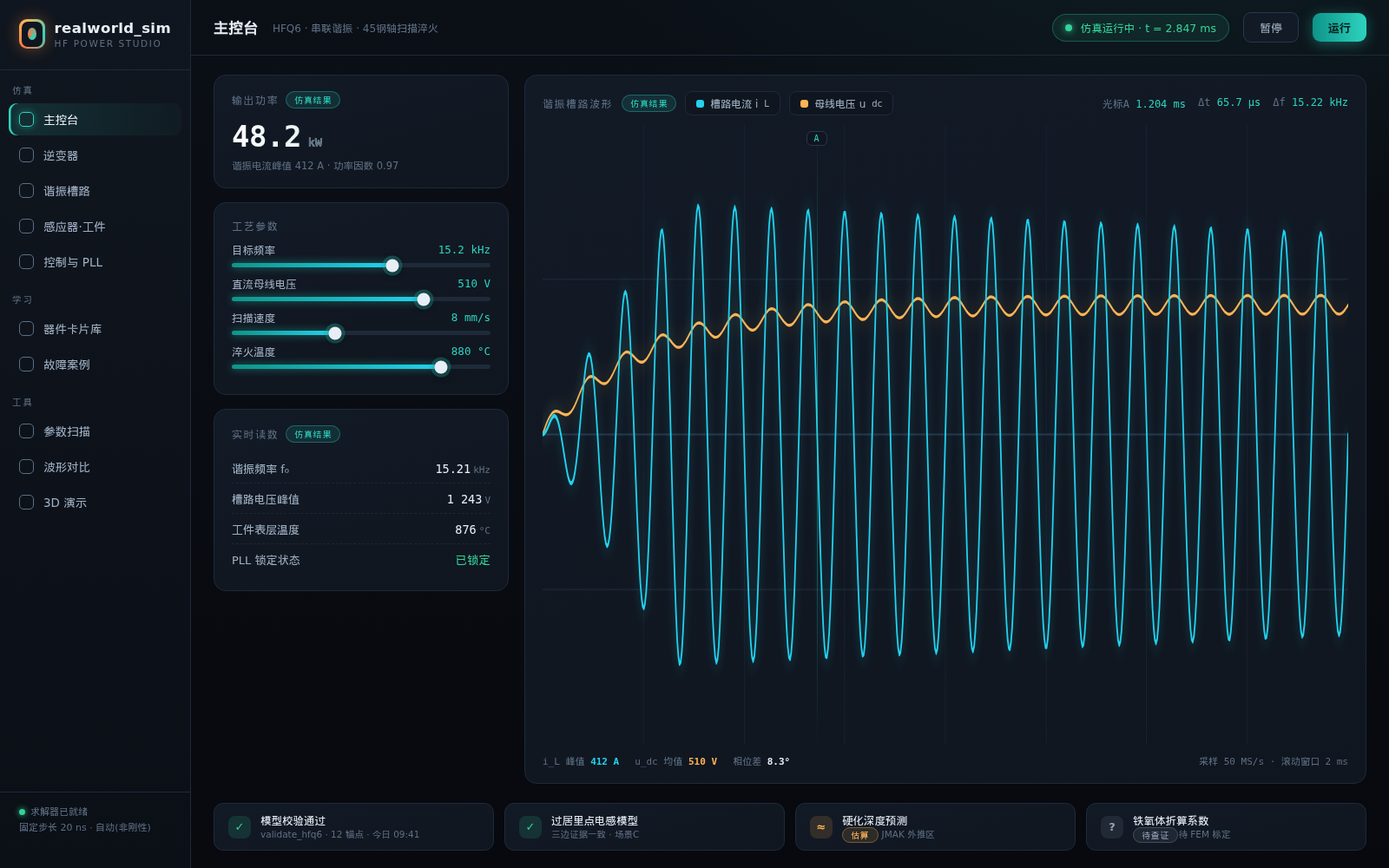
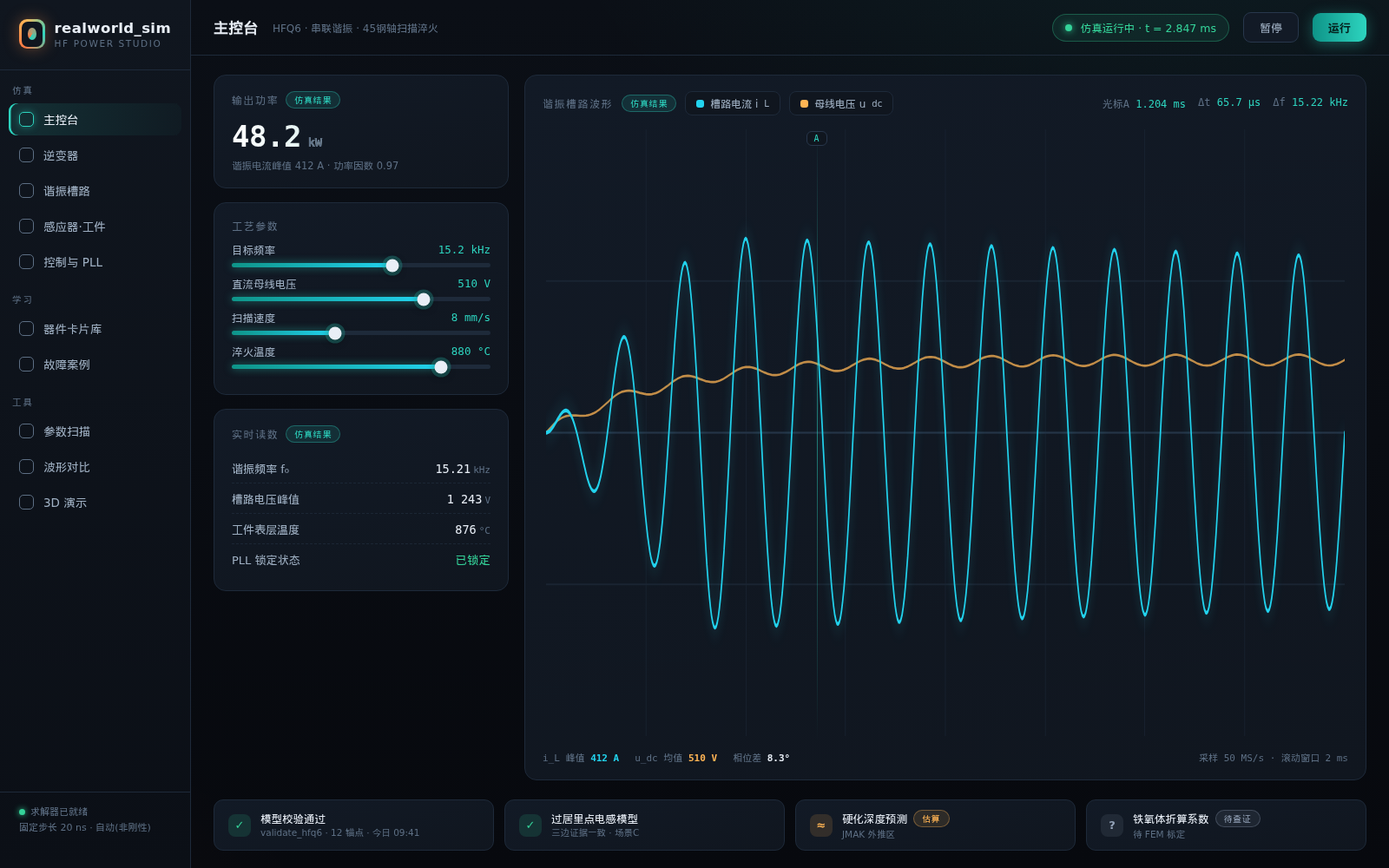
design: v1.1 修订 p1(状态卡徽章重叠修复;波形留白增加 22→13周期,母线曲线弱化)

diff --git a/design/v1/p1_dashboard.html b/design/v1/p1_dashboard.html
@@ -52,8 +52,10 @@
         <div class="ch"><i style="background:var(--em2)"></i>母线电压 u<sub>dc</sub></div>
         <div class="cursorinfo"><span>光标A <b>1.204 ms</b></span><span>Δt <b>65.7 µs</b></span><span>Δf <b>15.22 kHz</b></span></div>
       </div>
-      <div style="flex:1;position:relative">
-        <svg viewBox="0 0 1150 340" width="100%" height="100%" preserveAspectRatio="none"><line x1="144" y1="0" x2="144" y2="340" stroke="#1a2432" stroke-width="1"/><line x1="288" y1="0" x2="288" y2="340" stroke="#1a2432" stroke-width="1"/><line x1="431" y1="0" x2="431" y2="340" stroke="#1a2432" stroke-width="1"/><line x1="575" y1="0" x2="575" y2="340" stroke="#1a2432" stroke-width="1"/><line x1="719" y1="0" x2="719" y2="340" stroke="#1a2432" stroke-width="1"/><line x1="862" y1="0" x2="862" y2="340" stroke="#1a2432" stroke-width="1"/><line x1="1006" y1="0" x2="1006" y2="340" stroke="#1a2432" stroke-width="1"/><line x1="0" y1="85" x2="1150" y2="85" stroke="#1a2432" stroke-width="1"/><line x1="0" y1="170" x2="1150" y2="170" stroke="#1a2432" stroke-width="1"/><line x1="0" y1="255" x2="1150" y2="255" stroke="#1a2432" stroke-width="1"/><line x1="0" y1="170.0" x2="1150" y2="170.0" stroke="#243447" stroke-width="1"/><path d="M0.0,170.0 L2.3,167.5 L4.6,165.0 L6.9,162.9 L9.2,161.0 L11.5,159.5 L13.8,158.3 L16.1,157.6 L18.4,157.3 L20.7,157.3 L23.0,157.6 L25.3,158.0 L27.6,158.5 L29.9,158.9 L32.2,159.2 L34.5,159.2 L36.8,158.9 L39.1,158.2 L41.4,157.2 L43.7,155.8 L46.0,154.1 L48.3,152.1 L50.6,149.9 L52.9,147.7 L55.2,145.6 L57.5,143.5 L59.8,141.8 L62.1,140.3 L64.4,139.2 L66.7,138.5 L69.0,138.2 L71.3,138.3 L73.6,138.7 L75.9,139.3 L78.2,140.1 L80.5,140.8 L82.8,141.5 L85.1,142.0 L87.4,142.2 L89.7,142.1 L92.0,141.6 L94.3,140.7 L96.6,139.4 L98.9,137.9 L101.2,136.1 L103.5,134.2 L105.8,132.2 L108.1,130.3 L110.4,128.6 L112.7,127.1 L115.0,126.0 L117.3,125.2 L119.6,124.8 L121.9,124.9 L124.2,125.3 L126.5,125.9 L128.8,126.8 L131.1,127.7 L133.4,128.7 L135.7,129.5 L138.0,130.1 L140.3,130.4 L142.6,130.4 L144.9,130.0 L147.2,129.2 L149.5,128.0 L151.8,126.6 L154.1,124.9 L156.4,123.1 L158.7,121.3 L161.0,119.6 L163.3,118.1 L165.6,116.9 L167.9,116.0 L170.2,115.5 L172.5,115.4 L174.8,115.7 L177.1,116.3 L179.4,117.2 L181.7,118.2 L184.0,119.3 L186.3,120.4 L188.6,121.3 L190.9,122.0 L193.2,122.3 L195.5,122.3 L197.8,121.9 L200.1,121.2 L202.4,120.0 L204.7,118.7 L207.0,117.1 L209.3,115.4 L211.6,113.7 L213.9,112.2 L216.2,110.8 L218.5,109.8 L220.8,109.1 L223.1,108.9 L225.4,109.0 L227.7,109.5 L230.0,110.2 L232.3,111.3 L234.6,112.4 L236.9,113.6 L239.2,114.8 L241.5,115.7 L243.8,116.4 L246.1,116.8 L248.4,116.7 L250.7,116.3 L253.0,115.5 L255.3,114.4 L257.6,113.0 L259.9,111.5 L262.2,109.9 L264.5,108.3 L266.8,106.9 L269.1,105.7 L271.4,104.9 L273.7,104.4 L276.0,104.3 L278.3,104.6 L280.6,105.2 L282.9,106.2 L285.2,107.3 L287.5,108.6 L289.8,109.8 L292.1,111.0 L294.4,111.9 L296.7,112.6 L299.0,112.9 L301.3,112.8 L303.6,112.4 L305.9,111.5 L308.2,110.4 L310.5,109.0 L312.8,107.5 L315.1,106.0 L317.4,104.5 L319.7,103.2 L322.0,102.1 L324.3,101.4 L326.6,101.1 L328.9,101.2 L331.2,101.6 L333.5,102.4 L335.8,103.4 L338.1,104.7 L340.4,106.0 L342.7,107.3 L345.0,108.4 L347.3,109.3 L349.6,110.0 L351.9,110.2 L354.2,110.1 L356.5,109.6 L358.8,108.7 L361.1,107.5 L363.4,106.1 L365.7,104.7 L368.0,103.1 L370.3,101.7 L372.6,100.5 L374.9,99.6 L377.2,99.0 L379.5,98.9 L381.8,99.1 L384.1,99.6 L386.4,100.5 L388.7,101.7 L391.0,103.0 L393.3,104.3 L395.6,105.6 L397.9,106.7 L400.2,107.6 L402.5,108.2 L404.8,108.4 L407.1,108.1 L409.4,107.6 L411.7,106.6 L414.0,105.4 L416.3,104.0 L418.6,102.5 L420.9,101.1 L423.2,99.7 L425.5,98.6 L427.8,97.8 L430.1,97.4 L432.4,97.3 L434.7,97.7 L437.0,98.4 L439.3,99.4 L441.6,100.6 L443.9,101.9 L446.2,103.3 L448.5,104.6 L450.8,105.7 L453.1,106.5 L455.4,107.0 L457.7,107.0 L460.0,106.8 L462.3,106.1 L464.6,105.1 L466.9,103.8 L469.2,102.4 L471.5,101.0 L473.8,99.5 L476.1,98.3 L478.4,97.3 L480.7,96.6 L483.0,96.3 L485.3,96.3 L487.6,96.8 L489.9,97.6 L492.2,98.7 L494.5,99.9 L496.8,101.3 L499.1,102.7 L501.4,103.9 L503.7,105.0 L506.0,105.7 L508.3,106.1 L510.6,106.1 L512.9,105.7 L515.2,105.0 L517.5,103.9 L519.8,102.6 L522.1,101.2 L524.4,99.8 L526.7,98.4 L529.0,97.2 L531.3,96.3 L533.6,95.7 L535.9,95.5 L538.2,95.7 L540.5,96.2 L542.8,97.1 L545.1,98.3 L547.4,99.6 L549.7,101.0 L552.0,102.4 L554.3,103.6 L556.6,104.6 L558.9,105.2 L561.2,105.5 L563.5,105.4 L565.8,104.9 L568.1,104.1 L570.4,103.0 L572.7,101.7 L575.0,100.2 L577.3,98.8 L579.6,97.5 L581.9,96.4 L584.2,95.5 L586.5,95.1 L588.8,95.0 L591.1,95.3 L593.4,95.9 L595.7,96.9 L598.0,98.1 L600.3,99.5 L602.6,100.9 L604.9,102.3 L607.2,103.4 L609.5,104.3 L611.8,104.9 L614.1,105.1 L616.4,104.9 L618.7,104.3 L621.0,103.4 L623.3,102.2 L625.6,100.9 L627.9,99.5 L630.2,98.0 L632.5,96.8 L634.8,95.7 L637.1,95.0 L639.4,94.6 L641.7,94.7 L644.0,95.1 L646.3,95.8 L648.6,96.9 L650.9,98.2 L653.2,99.6 L655.5,101.0 L657.8,102.3 L660.1,103.4 L662.4,104.2 L664.7,104.7 L667.0,104.8 L669.3,104.5 L671.6,103.8 L673.9,102.8 L676.2,101.6 L678.5,100.2 L680.8,98.8 L683.1,97.4 L685.4,96.2 L687.7,95.2 L690.0,94.6 L692.3,94.4 L694.6,94.5 L696.9,95.0 L699.2,95.9 L701.5,97.0 L703.8,98.3 L706.1,99.7 L708.4,101.1 L710.7,102.4 L713.0,103.4 L715.3,104.2 L717.6,104.5 L719.9,104.5 L722.2,104.1 L724.5,103.4 L726.8,102.3 L729.1,101.0 L731.4,99.6 L733.7,98.2 L736.0,96.9 L738.3,95.7 L740.6,94.9 L742.9,94.3 L745.2,94.2 L747.5,94.4 L749.8,95.0 L752.1,96.0 L754.4,97.2 L756.7,98.5 L759.0,99.9 L761.3,101.3 L763.6,102.5 L765.9,103.5 L768.2,104.2 L770.5,104.4 L772.8,104.3 L775.1,103.8 L777.4,103.0 L779.7,101.9 L782.0,100.5 L784.3,99.1 L786.6,97.7 L788.9,96.4 L791.2,95.3 L793.5,94.5 L795.8,94.1 L798.1,94.1 L800.4,94.4 L802.7,95.1 L805.0,96.2 L807.3,97.4 L809.6,98.8 L811.9,100.2 L814.2,101.6 L816.5,102.7 L818.8,103.6 L821.1,104.2 L823.4,104.3 L825.7,104.1 L828.0,103.5 L830.3,102.6 L832.6,101.4 L834.9,100.1 L837.2,98.6 L839.5,97.2 L841.8,96.0 L844.1,95.0 L846.4,94.3 L848.7,94.0 L851.0,94.1 L853.3,94.5 L855.6,95.3 L857.9,96.4 L860.2,97.7 L862.5,99.1 L864.8,100.5 L867.1,101.8 L869.4,102.9 L871.7,103.7 L874.0,104.2 L876.3,104.2 L878.6,103.9 L880.9,103.2 L883.2,102.2 L885.5,101.0 L887.8,99.6 L890.1,98.2 L892.4,96.8 L894.7,95.6 L897.0,94.7 L899.3,94.1 L901.6,93.9 L903.9,94.1 L906.2,94.6 L908.5,95.5 L910.8,96.7 L913.1,98.0 L915.4,99.5 L917.7,100.8 L920.0,102.1 L922.3,103.1 L924.6,103.8 L926.9,104.2 L929.2,104.1 L931.5,103.7 L933.8,102.9 L936.1,101.9 L938.4,100.6 L940.7,99.2 L943.0,97.8 L945.3,96.4 L947.6,95.3 L949.9,94.5 L952.2,94.0 L954.5,93.9 L956.8,94.2 L959.1,94.8 L961.4,95.8 L963.7,97.0 L966.0,98.4 L968.3,99.8 L970.6,101.2 L972.9,102.4 L975.2,103.3 L977.5,103.9 L979.8,104.2 L982.1,104.0 L984.4,103.5 L986.7,102.6 L989.0,101.5 L991.3,100.2 L993.6,98.8 L995.9,97.4 L998.2,96.1 L1000.5,95.0 L1002.8,94.3 L1005.1,93.9 L1007.4,93.9 L1009.7,94.3 L1012.0,95.0 L1014.3,96.1 L1016.6,97.3 L1018.9,98.7 L1021.2,100.2 L1023.5,101.5 L1025.8,102.6 L1028.1,103.5 L1030.4,104.0 L1032.7,104.2 L1035.0,103.9 L1037.3,103.3 L1039.6,102.3 L1041.9,101.1 L1044.2,99.8 L1046.5,98.3 L1048.8,97.0 L1051.1,95.7 L1053.4,94.8 L1055.7,94.1 L1058.0,93.8 L1060.3,93.9 L1062.6,94.4 L1064.9,95.3 L1067.2,96.4 L1069.5,97.7 L1071.8,99.1 L1074.1,100.5 L1076.4,101.8 L1078.7,102.9 L1081.0,103.7 L1083.3,104.1 L1085.6,104.1 L1087.9,103.8 L1090.2,103.0 L1092.5,102.0 L1094.8,100.8 L1097.1,99.4 L1099.4,97.9 L1101.7,96.6 L1104.0,95.4 L1106.3,94.5 L1108.6,94.0 L1110.9,93.8 L1113.2,94.0 L1115.5,94.6 L1117.8,95.5 L1120.1,96.7 L1122.4,98.1 L1124.7,99.5 L1127.0,100.9 L1129.3,102.1 L1131.6,103.1 L1133.9,103.8 L1136.2,104.1 L1138.5,104.0 L1140.8,103.6 L1143.1,102.8 L1145.4,101.7 L1147.7,100.4 L1150.0,99.0" fill="none" stroke="#ffb454" stroke-width="1.6" stroke-linejoin="round" stroke-linecap="round" style="filter:drop-shadow(0 0 6px #ffb45466)"/><path d="M0.0,170.0 L1.6,169.8 L3.3,169.1 L4.9,168.1 L6.6,166.9 L8.2,165.4 L9.9,163.9 L11.5,162.4 L13.1,161.2 L14.8,160.3 L16.4,159.8 L18.1,160.0 L19.7,160.8 L21.4,162.2 L23.0,164.3 L24.6,167.0 L26.3,170.3 L27.9,174.0 L29.6,178.0 L31.2,182.0 L32.9,185.9 L34.5,189.5 L36.1,192.6 L37.8,195.0 L39.4,196.4 L41.1,196.8 L42.7,196.1 L44.4,194.2 L46.0,191.1 L47.6,186.9 L49.3,181.6 L50.9,175.5 L52.6,168.7 L54.2,161.6 L55.9,154.4 L57.5,147.4 L59.1,140.9 L60.8,135.3 L62.4,130.8 L64.1,127.7 L65.7,126.1 L67.4,126.3 L69.0,128.3 L70.6,132.1 L72.3,137.6 L73.9,144.7 L75.6,153.1 L77.2,162.6 L78.9,172.8 L80.5,183.4 L82.1,193.8 L83.8,203.6 L85.4,212.5 L87.1,220.1 L88.7,225.9 L90.4,229.6 L92.0,231.2 L93.6,230.3 L95.3,226.9 L96.9,221.2 L98.6,213.2 L100.2,203.2 L101.9,191.5 L103.5,178.6 L105.1,165.0 L106.8,151.1 L108.4,137.6 L110.1,124.9 L111.7,113.7 L113.4,104.4 L115.0,97.4 L116.6,93.1 L118.3,91.8 L119.9,93.5 L121.6,98.3 L123.2,106.1 L124.9,116.7 L126.5,129.6 L128.1,144.5 L129.8,160.8 L131.4,177.8 L133.1,195.0 L134.7,211.6 L136.4,226.9 L138.0,240.4 L139.6,251.4 L141.3,259.4 L142.9,264.1 L144.6,265.2 L146.2,262.5 L147.9,256.1 L149.5,246.1 L151.1,233.0 L152.8,217.0 L154.4,198.9 L156.1,179.2 L157.7,158.8 L159.4,138.4 L161.0,118.8 L162.6,100.9 L164.3,85.3 L165.9,72.7 L167.6,63.8 L169.2,58.8 L170.9,58.2 L172.5,61.9 L174.1,70.0 L175.8,82.1 L177.4,98.0 L179.1,117.0 L180.7,138.4 L182.4,161.4 L184.0,185.2 L185.6,208.8 L187.3,231.3 L188.9,251.7 L190.6,269.3 L192.2,283.0 L193.9,291.7 L195.5,295.7 L197.1,294.7 L198.8,289.0 L200.4,278.6 L202.1,264.0 L203.7,245.7 L205.4,224.6 L207.0,201.3 L208.6,176.8 L210.3,152.0 L211.9,128.0 L213.6,105.6 L215.2,85.7 L216.9,69.1 L218.5,56.4 L220.1,48.2 L221.8,44.7 L223.4,46.0 L225.1,52.2 L226.7,62.9 L228.4,77.9 L230.0,96.3 L231.6,117.7 L233.3,141.0 L234.9,165.5 L236.6,190.1 L238.2,214.0 L239.9,236.1 L241.5,255.7 L243.1,271.9 L244.8,284.1 L246.4,291.9 L248.1,295.0 L249.7,293.2 L251.4,286.6 L253.0,275.5 L254.6,260.3 L256.3,241.6 L257.9,220.1 L259.6,196.7 L261.2,172.2 L262.9,147.7 L264.5,124.1 L266.1,102.2 L267.8,83.0 L269.4,67.2 L271.1,55.4 L272.7,48.0 L274.4,45.4 L276.0,47.7 L277.6,54.6 L279.3,66.1 L280.9,81.6 L282.6,100.5 L284.2,122.1 L285.9,145.6 L287.5,170.0 L289.1,194.4 L290.8,217.8 L292.4,239.4 L294.1,258.2 L295.7,273.7 L297.4,285.1 L299.0,292.0 L300.6,294.1 L302.3,291.5 L303.9,284.1 L305.6,272.3 L307.2,256.5 L308.9,237.4 L310.5,215.6 L312.1,192.1 L313.8,167.8 L315.4,143.5 L317.1,120.3 L318.7,99.0 L320.4,80.5 L322.0,65.5 L323.6,54.5 L325.3,48.1 L326.9,46.4 L328.6,49.4 L330.2,57.2 L331.9,69.4 L333.5,85.4 L335.1,104.7 L336.8,126.6 L338.4,150.1 L340.1,174.4 L341.7,198.5 L343.4,221.5 L345.0,242.5 L346.6,260.7 L348.3,275.3 L349.9,285.8 L351.6,291.8 L353.2,293.1 L354.9,289.6 L356.5,281.5 L358.1,269.0 L359.8,252.7 L361.4,233.1 L363.1,211.2 L364.7,187.6 L366.4,163.4 L368.0,139.4 L369.6,116.6 L371.3,96.0 L372.9,78.2 L374.6,63.9 L376.2,53.9 L377.9,48.3 L379.5,47.4 L381.1,51.4 L382.8,59.9 L384.4,72.7 L386.1,89.3 L387.7,109.0 L389.4,131.1 L391.0,154.6 L392.6,178.8 L394.3,202.6 L395.9,225.1 L397.6,245.5 L399.2,263.0 L400.9,276.8 L402.5,286.4 L404.1,291.6 L405.8,292.0 L407.4,287.6 L409.1,278.7 L410.7,265.6 L412.4,248.8 L414.0,228.9 L415.6,206.7 L417.3,183.1 L418.9,159.1 L420.6,135.4 L422.2,113.1 L423.9,93.0 L425.5,76.0 L427.1,62.6 L428.8,53.3 L430.4,48.6 L432.1,48.7 L433.7,53.4 L435.4,62.7 L437.0,76.1 L438.6,93.2 L440.3,113.3 L441.9,135.5 L443.6,159.1 L445.2,183.1 L446.9,206.6 L448.5,228.6 L450.1,248.4 L451.8,265.1 L453.4,278.1 L455.1,286.9 L456.7,291.1 L458.4,290.6 L460.0,285.5 L461.6,275.9 L463.3,262.1 L464.9,244.8 L466.6,224.6 L468.2,202.3 L469.9,178.7 L471.5,154.8 L473.1,131.5 L474.8,109.7 L476.4,90.3 L478.1,73.9 L479.7,61.4 L481.4,53.0 L483.0,49.2 L484.6,50.1 L486.3,55.6 L487.9,65.6 L489.6,79.6 L491.2,97.2 L492.9,117.5 L494.5,139.9 L496.1,163.5 L497.8,187.3 L499.4,210.4 L501.1,231.9 L502.7,251.1 L504.4,267.0 L506.0,279.2 L507.6,287.1 L509.3,290.5 L510.9,289.2 L512.6,283.3 L514.2,272.9 L515.9,258.6 L517.5,240.8 L519.1,220.3 L520.8,197.8 L522.4,174.3 L524.1,150.6 L525.7,127.7 L527.4,106.4 L529.0,87.7 L530.6,72.1 L532.3,60.3 L533.9,52.8 L535.6,49.9 L537.2,51.6 L538.9,57.9 L540.5,68.6 L542.1,83.2 L543.8,101.2 L545.4,121.8 L547.1,144.4 L548.7,167.8 L550.4,191.4 L552.0,214.1 L553.6,235.1 L555.3,253.6 L556.9,268.8 L558.6,280.1 L560.2,287.2 L561.9,289.7 L563.5,287.6 L565.1,280.9 L566.8,269.9 L568.4,255.0 L570.1,236.8 L571.7,216.0 L573.4,193.5 L575.0,170.0 L576.6,146.6 L578.3,124.0 L579.9,103.3 L581.6,85.2 L583.2,70.4 L584.9,59.4 L586.5,52.8 L588.1,50.7 L589.8,53.3 L591.4,60.4 L593.1,71.7 L594.7,86.9 L596.4,105.3 L598.0,126.1 L599.6,148.7 L601.3,172.1 L602.9,195.4 L604.6,217.8 L606.2,238.2 L607.9,256.0 L609.5,270.4 L611.1,280.9 L612.8,287.1 L614.4,288.8 L616.1,285.8 L617.7,278.4 L619.4,266.7 L621.0,251.3 L622.6,232.7 L624.3,211.7 L625.9,189.1 L627.6,165.7 L629.2,142.6 L630.9,120.5 L632.5,100.3 L634.1,82.9 L635.8,68.8 L637.4,58.7 L639.1,52.9 L640.7,51.7 L642.4,55.1 L644.0,62.9 L645.6,74.9 L647.3,90.6 L648.9,109.3 L650.6,130.4 L652.2,153.1 L653.9,176.4 L655.5,199.4 L657.1,221.3 L658.8,241.1 L660.4,258.2 L662.1,271.9 L663.7,281.6 L665.4,286.9 L667.0,287.7 L668.6,284.0 L670.3,275.8 L671.9,263.5 L673.6,247.5 L675.2,228.6 L676.9,207.4 L678.5,184.8 L680.1,161.6 L681.8,138.7 L683.4,117.0 L685.1,97.5 L686.7,80.7 L688.4,67.5 L690.0,58.2 L691.6,53.3 L693.3,52.9 L694.9,57.0 L696.6,65.6 L698.2,78.2 L699.9,94.4 L701.5,113.5 L703.1,134.7 L704.8,157.4 L706.4,180.5 L708.1,203.2 L709.7,224.6 L711.4,243.9 L713.0,260.3 L714.6,273.2 L716.3,282.0 L717.9,286.5 L719.6,286.5 L721.2,281.9 L722.9,273.0 L724.5,260.1 L726.1,243.7 L727.8,224.5 L729.4,203.1 L731.1,180.5 L732.7,157.4 L734.4,134.9 L736.0,113.7 L737.6,94.8 L739.3,78.7 L740.9,66.2 L742.6,57.8 L744.2,53.7 L745.9,54.2 L747.5,59.1 L749.1,68.4 L750.8,81.5 L752.4,98.2 L754.1,117.6 L755.7,139.0 L757.4,161.6 L759.0,184.6 L760.6,207.0 L762.3,227.9 L763.9,246.5 L765.6,262.2 L767.2,274.3 L768.9,282.3 L770.5,286.0 L772.1,285.1 L773.8,279.8 L775.4,270.2 L777.1,256.7 L778.7,239.9 L780.4,220.4 L782.0,198.9 L783.6,176.2 L785.3,153.4 L786.9,131.2 L788.6,110.5 L790.2,92.2 L791.9,76.9 L793.5,65.2 L795.1,57.6 L796.8,54.3 L798.4,55.6 L800.1,61.3 L801.7,71.2 L803.4,85.0 L805.0,102.0 L806.6,121.7 L808.3,143.3 L809.9,165.9 L811.6,188.6 L813.2,210.6 L814.9,231.0 L816.5,249.0 L818.1,264.0 L819.8,275.3 L821.4,282.5 L823.1,285.3 L824.7,283.6 L826.4,277.6 L828.0,267.3 L829.6,253.3 L831.3,236.0 L832.9,216.2 L834.6,194.6 L836.2,172.1 L837.9,149.5 L839.5,127.6 L841.1,107.5 L842.8,89.8 L844.4,75.2 L846.1,64.3 L847.7,57.5 L849.4,55.1 L851.0,57.2 L852.6,63.6 L854.3,74.2 L855.9,88.5 L857.6,105.9 L859.2,125.9 L860.9,147.5 L862.5,170.0 L864.1,192.5 L865.8,214.1 L867.4,234.0 L869.1,251.4 L870.7,265.6 L872.4,276.1 L874.0,282.4 L875.6,284.4 L877.3,282.0 L878.9,275.2 L880.6,264.3 L882.2,249.7 L883.9,232.1 L885.5,212.1 L887.1,190.4 L888.8,167.9 L890.4,145.6 L892.1,124.2 L893.7,104.6 L895.4,87.5 L897.0,73.7 L898.6,63.6 L900.3,57.6 L901.9,56.0 L903.6,58.9 L905.2,66.0 L906.9,77.2 L908.5,92.0 L910.1,109.9 L911.8,130.0 L913.4,151.7 L915.1,174.1 L916.7,196.3 L918.4,217.5 L920.0,236.8 L921.6,253.6 L923.3,267.0 L924.9,276.7 L926.6,282.3 L928.2,283.4 L929.9,280.2 L931.5,272.7 L933.1,261.2 L934.8,246.2 L936.4,228.2 L938.1,207.9 L939.7,186.2 L941.4,163.9 L943.0,141.8 L944.6,120.8 L946.3,101.8 L947.9,85.4 L949.6,72.3 L951.2,63.0 L952.9,57.9 L954.5,57.1 L956.1,60.7 L957.8,68.6 L959.4,80.4 L961.1,95.7 L962.7,113.8 L964.4,134.1 L966.0,155.8 L967.6,178.1 L969.3,200.0 L970.9,220.8 L972.6,239.5 L974.2,255.6 L975.9,268.3 L977.5,277.2 L979.1,281.9 L980.8,282.3 L982.4,278.3 L984.1,270.1 L985.7,258.0 L987.4,242.5 L989.0,224.2 L990.6,203.8 L992.3,182.1 L993.9,159.9 L995.6,138.2 L997.2,117.6 L998.9,99.2 L1000.5,83.4 L1002.1,71.1 L1003.8,62.6 L1005.4,58.3 L1007.1,58.3 L1008.7,62.7 L1010.4,71.2 L1012.0,83.6 L1013.6,99.3 L1015.3,117.8 L1016.9,138.3 L1018.6,160.0 L1020.2,182.0 L1021.9,203.6 L1023.5,223.9 L1025.1,242.1 L1026.8,257.5 L1028.4,269.4 L1030.1,277.5 L1031.7,281.4 L1033.4,281.0 L1035.0,276.3 L1036.6,267.4 L1038.3,254.8 L1039.9,238.8 L1041.6,220.2 L1043.2,199.7 L1044.9,178.0 L1046.5,156.0 L1048.1,134.6 L1049.8,114.5 L1051.4,96.7 L1053.1,81.6 L1054.7,70.0 L1056.4,62.4 L1058.0,58.8 L1059.6,59.7 L1061.3,64.8 L1062.9,74.0 L1064.6,86.9 L1066.2,103.0 L1067.9,121.8 L1069.5,142.4 L1071.1,164.0 L1072.8,185.9 L1074.4,207.2 L1076.1,227.0 L1077.7,244.5 L1079.4,259.2 L1081.0,270.4 L1082.6,277.7 L1084.3,280.8 L1085.9,279.6 L1087.6,274.1 L1089.2,264.6 L1090.9,251.5 L1092.5,235.1 L1094.1,216.3 L1095.8,195.6 L1097.4,174.0 L1099.1,152.2 L1100.7,131.1 L1102.4,111.6 L1104.0,94.3 L1105.6,80.0 L1107.3,69.2 L1108.9,62.3 L1110.6,59.6 L1112.2,61.1 L1113.9,67.0 L1115.5,76.8 L1117.1,90.2 L1118.8,106.8 L1120.4,125.7 L1122.1,146.4 L1123.7,168.0 L1125.4,189.7 L1127.0,210.6 L1128.6,229.9 L1130.3,246.8 L1131.9,260.8 L1133.6,271.2 L1135.2,277.7 L1136.9,280.0 L1138.5,278.1 L1140.1,271.9 L1141.8,261.8 L1143.4,248.1 L1145.1,231.4 L1146.7,212.3 L1148.4,191.6 L1150.0,170.0" fill="none" stroke="#22d3ee" stroke-width="2.2" stroke-linejoin="round" stroke-linecap="round" style="filter:drop-shadow(0 0 6px #22d3ee66)"/></svg>
+      <div style="flex:1;position:relative;padding:6px 4px">
+        <svg viewBox="0 0 1150 340" width="100%" height="100%" preserveAspectRatio="none"><line x1="144" y1="0" x2="144" y2="340" stroke="#1a2432" stroke-width="1"/><line x1="288" y1="0" x2="288" y2="340" stroke="#1a2432" stroke-width="1"/><line x1="431" y1="0" x2="431" y2="340" stroke="#1a2432" stroke-width="1"/><line x1="575" y1="0" x2="575" y2="340" stroke="#1a2432" stroke-width="1"/><line x1="719" y1="0" x2="719" y2="340" stroke="#1a2432" stroke-width="1"/><line x1="862" y1="0" x2="862" y2="340" stroke="#1a2432" stroke-width="1"/><line x1="1006" y1="0" x2="1006" y2="340" stroke="#1a2432" stroke-width="1"/><line x1="0" y1="85" x2="1150" y2="85" stroke="#1a2432" stroke-width="1"/><line x1="0" y1="170" x2="1150" y2="170" stroke="#1a2432" stroke-width="1"/><line x1="0" y1="255" x2="1150" y2="255" stroke="#1a2432" stroke-width="1"/><line x1="0" y1="170" x2="1150" y2="170" stroke="#243447" stroke-width="1"/>
+<path d="M0.0,170.0 L2.9,168.7 L5.8,167.4 L8.6,166.2 L11.5,165.0 L14.4,164.0 L17.2,163.1 L20.1,162.3 L23.0,161.6 L25.9,161.1 L28.8,160.7 L31.6,160.5 L34.5,160.3 L37.4,160.3 L40.3,160.3 L43.1,160.3 L46.0,160.4 L48.9,160.5 L51.8,160.5 L54.6,160.5 L57.5,160.4 L60.4,160.2 L63.2,159.9 L66.1,159.5 L69.0,159.0 L71.9,158.4 L74.8,157.6 L77.6,156.8 L80.5,155.8 L83.4,154.8 L86.2,153.8 L89.1,152.8 L92.0,151.7 L94.9,150.8 L97.8,149.8 L100.6,149.0 L103.5,148.2 L106.4,147.6 L109.2,147.1 L112.1,146.8 L115.0,146.6 L117.9,146.5 L120.8,146.5 L123.6,146.6 L126.5,146.8 L129.4,147.0 L132.2,147.3 L135.1,147.7 L138.0,147.9 L140.9,148.2 L143.8,148.4 L146.6,148.5 L149.5,148.5 L152.4,148.4 L155.2,148.1 L158.1,147.8 L161.0,147.3 L163.9,146.7 L166.8,146.0 L169.6,145.2 L172.5,144.4 L175.4,143.6 L178.2,142.7 L181.1,141.8 L184.0,141.0 L186.9,140.3 L189.8,139.6 L192.6,139.1 L195.5,138.6 L198.4,138.3 L201.2,138.2 L204.1,138.1 L207.0,138.2 L209.9,138.4 L212.8,138.7 L215.6,139.0 L218.5,139.4 L221.4,139.9 L224.2,140.3 L227.1,140.7 L230.0,141.1 L232.9,141.3 L235.8,141.5 L238.6,141.6 L241.5,141.6 L244.4,141.5 L247.2,141.2 L250.1,140.8 L253.0,140.3 L255.9,139.7 L258.8,139.0 L261.6,138.3 L264.5,137.5 L267.4,136.8 L270.2,136.0 L273.1,135.3 L276.0,134.7 L278.9,134.2 L281.8,133.7 L284.6,133.4 L287.5,133.2 L290.4,133.2 L293.2,133.2 L296.1,133.4 L299.0,133.7 L301.9,134.1 L304.8,134.5 L307.6,135.0 L310.5,135.6 L313.4,136.1 L316.2,136.5 L319.1,137.0 L322.0,137.3 L324.9,137.6 L327.8,137.7 L330.6,137.7 L333.5,137.6 L336.4,137.4 L339.2,137.0 L342.1,136.5 L345.0,136.0 L347.9,135.4 L350.8,134.7 L353.6,134.0 L356.5,133.3 L359.4,132.6 L362.2,132.0 L365.1,131.4 L368.0,131.0 L370.9,130.6 L373.8,130.4 L376.6,130.3 L379.5,130.3 L382.4,130.4 L385.2,130.7 L388.1,131.1 L391.0,131.5 L393.9,132.0 L396.7,132.6 L399.6,133.1 L402.5,133.7 L405.4,134.2 L408.2,134.6 L411.1,135.0 L414.0,135.3 L416.9,135.4 L419.8,135.4 L422.6,135.3 L425.5,135.1 L428.4,134.8 L431.2,134.3 L434.1,133.8 L437.0,133.2 L439.9,132.5 L442.8,131.9 L445.6,131.2 L448.5,130.6 L451.4,130.0 L454.2,129.5 L457.1,129.1 L460.0,128.8 L462.9,128.6 L465.8,128.5 L468.6,128.6 L471.5,128.8 L474.4,129.1 L477.2,129.6 L480.1,130.0 L483.0,130.6 L485.9,131.2 L488.8,131.8 L491.6,132.3 L494.5,132.9 L497.4,133.3 L500.2,133.7 L503.1,133.9 L506.0,134.1 L508.9,134.1 L511.8,134.0 L514.6,133.8 L517.5,133.4 L520.4,133.0 L523.2,132.4 L526.1,131.9 L529.0,131.2 L531.9,130.6 L534.8,129.9 L537.6,129.3 L540.5,128.8 L543.4,128.3 L546.2,127.9 L549.1,127.7 L552.0,127.6 L554.9,127.6 L557.8,127.7 L560.6,127.9 L563.5,128.3 L566.4,128.7 L569.2,129.3 L572.1,129.8 L575.0,130.4 L577.9,131.0 L580.8,131.6 L583.6,132.1 L586.5,132.6 L589.4,132.9 L592.2,133.2 L595.1,133.3 L598.0,133.3 L600.9,133.2 L603.8,133.0 L606.6,132.6 L609.5,132.1 L612.4,131.6 L615.2,131.0 L618.1,130.4 L621.0,129.7 L623.9,129.1 L626.8,128.5 L629.6,128.0 L632.5,127.6 L635.4,127.3 L638.2,127.1 L641.1,127.0 L644.0,127.0 L646.9,127.2 L649.7,127.5 L652.6,127.8 L655.5,128.3 L658.4,128.9 L661.2,129.5 L664.1,130.1 L667.0,130.7 L669.9,131.2 L672.8,131.8 L675.6,132.2 L678.5,132.5 L681.4,132.8 L684.2,132.9 L687.1,132.9 L690.0,132.7 L692.9,132.5 L695.8,132.1 L698.6,131.6 L701.5,131.1 L704.4,130.5 L707.2,129.8 L710.1,129.2 L713.0,128.6 L715.9,128.0 L718.8,127.5 L721.6,127.1 L724.5,126.9 L727.4,126.7 L730.2,126.6 L733.1,126.7 L736.0,126.9 L738.9,127.2 L741.8,127.6 L744.6,128.1 L747.5,128.7 L750.4,129.3 L753.2,129.9 L756.1,130.5 L759.0,131.1 L761.9,131.6 L764.8,132.0 L767.6,132.3 L770.5,132.5 L773.4,132.6 L776.2,132.6 L779.1,132.4 L782.0,132.1 L784.9,131.7 L787.8,131.3 L790.6,130.7 L793.5,130.1 L796.4,129.5 L799.2,128.8 L802.1,128.2 L805.0,127.7 L807.9,127.2 L810.8,126.9 L813.6,126.6 L816.5,126.4 L819.4,126.4 L822.2,126.5 L825.1,126.8 L828.0,127.1 L830.9,127.5 L833.8,128.1 L836.6,128.6 L839.5,129.3 L842.4,129.9 L845.2,130.5 L848.1,131.0 L851.0,131.5 L853.9,131.9 L856.8,132.2 L859.6,132.4 L862.5,132.5 L865.4,132.4 L868.2,132.2 L871.1,131.9 L874.0,131.5 L876.9,131.0 L879.8,130.4 L882.6,129.8 L885.5,129.2 L888.4,128.6 L891.2,128.0 L894.1,127.5 L897.0,127.0 L899.9,126.7 L902.8,126.4 L905.6,126.3 L908.5,126.3 L911.4,126.5 L914.2,126.7 L917.1,127.1 L920.0,127.6 L922.9,128.1 L925.8,128.7 L928.6,129.3 L931.5,129.9 L934.4,130.5 L937.2,131.1 L940.1,131.5 L943.0,131.9 L945.9,132.2 L948.8,132.3 L951.6,132.4 L954.5,132.3 L957.4,132.1 L960.2,131.7 L963.1,131.3 L966.0,130.8 L968.9,130.2 L971.8,129.6 L974.6,129.0 L977.5,128.4 L980.4,127.8 L983.2,127.3 L986.1,126.9 L989.0,126.5 L991.9,126.3 L994.8,126.2 L997.6,126.3 L1000.5,126.4 L1003.4,126.7 L1006.2,127.1 L1009.1,127.6 L1012.0,128.2 L1014.9,128.8 L1017.8,129.4 L1020.6,130.0 L1023.5,130.6 L1026.4,131.1 L1029.2,131.6 L1032.1,131.9 L1035.0,132.2 L1037.9,132.3 L1040.8,132.3 L1043.6,132.2 L1046.5,132.0 L1049.4,131.6 L1052.2,131.1 L1055.1,130.6 L1058.0,130.0 L1060.9,129.4 L1063.8,128.8 L1066.6,128.2 L1069.5,127.6 L1072.4,127.1 L1075.2,126.7 L1078.1,126.4 L1081.0,126.3 L1083.9,126.2 L1086.8,126.3 L1089.6,126.5 L1092.5,126.8 L1095.4,127.2 L1098.2,127.7 L1101.1,128.3 L1104.0,128.9 L1106.9,129.5 L1109.8,130.1 L1112.6,130.7 L1115.5,131.2 L1118.4,131.6 L1121.2,132.0 L1124.1,132.2 L1127.0,132.3 L1129.9,132.3 L1132.8,132.1 L1135.6,131.8 L1138.5,131.5 L1141.4,131.0 L1144.2,130.5 L1147.1,129.9 L1150.0,129.2" fill="none" stroke="#ffb454" stroke-width="1.3" stroke-linejoin="round" stroke-linecap="round" style="opacity:.75"/>
+<path d="M0.0,170.0 L1.6,169.9 L3.3,169.6 L4.9,169.2 L6.6,168.6 L8.2,167.8 L9.9,166.9 L11.5,165.9 L13.1,164.9 L14.8,163.8 L16.4,162.6 L18.1,161.6 L19.7,160.5 L21.4,159.6 L23.0,158.8 L24.6,158.2 L26.3,157.8 L27.9,157.6 L29.6,157.6 L31.2,157.9 L32.9,158.5 L34.5,159.3 L36.1,160.5 L37.8,161.9 L39.4,163.6 L41.1,165.6 L42.7,167.8 L44.4,170.2 L46.0,172.8 L47.6,175.5 L49.3,178.4 L50.9,181.3 L52.6,184.2 L54.2,187.1 L55.9,189.9 L57.5,192.6 L59.1,195.0 L60.8,197.2 L62.4,199.1 L64.1,200.6 L65.7,201.8 L67.4,202.5 L69.0,202.8 L70.6,202.6 L72.3,201.9 L73.9,200.7 L75.6,199.0 L77.2,196.8 L78.9,194.1 L80.5,190.9 L82.1,187.2 L83.8,183.2 L85.4,178.8 L87.1,174.1 L88.7,169.2 L90.4,164.1 L92.0,158.9 L93.6,153.7 L95.3,148.6 L96.9,143.5 L98.6,138.7 L100.2,134.1 L101.9,130.0 L103.5,126.2 L105.1,123.0 L106.8,120.3 L108.4,118.3 L110.1,117.0 L111.7,116.3 L113.4,116.4 L115.0,117.3 L116.6,118.9 L118.3,121.3 L119.9,124.5 L121.6,128.4 L123.2,133.0 L124.9,138.2 L126.5,144.1 L128.1,150.4 L129.8,157.2 L131.4,164.3 L133.1,171.7 L134.7,179.3 L136.4,186.9 L138.0,194.4 L139.6,201.8 L141.3,208.9 L142.9,215.7 L144.6,221.9 L146.2,227.6 L147.9,232.5 L149.5,236.8 L151.1,240.1 L152.8,242.6 L154.4,244.1 L156.1,244.6 L157.7,244.1 L159.4,242.5 L161.0,239.9 L162.6,236.2 L164.3,231.6 L165.9,226.0 L167.6,219.5 L169.2,212.2 L170.9,204.2 L172.5,195.5 L174.1,186.4 L175.8,176.8 L177.4,167.0 L179.1,157.0 L180.7,147.0 L182.4,137.1 L184.0,127.6 L185.6,118.4 L187.3,109.9 L188.9,102.0 L190.6,94.9 L192.2,88.7 L193.9,83.5 L195.5,79.5 L197.1,76.7 L198.8,75.1 L200.4,74.7 L202.1,75.7 L203.7,78.1 L205.4,81.7 L207.0,86.6 L208.6,92.7 L210.3,100.0 L211.9,108.4 L213.6,117.8 L215.2,128.0 L216.9,138.9 L218.5,150.5 L220.1,162.5 L221.8,174.7 L223.4,187.1 L225.1,199.5 L226.7,211.5 L228.4,223.2 L230.0,234.4 L231.6,244.2 L233.3,253.1 L234.9,260.8 L236.6,267.3 L238.2,272.4 L239.9,276.2 L241.5,278.5 L243.1,279.3 L244.8,278.7 L246.4,276.6 L248.1,273.0 L249.7,268.0 L251.4,261.7 L253.0,254.2 L254.6,245.5 L256.3,235.8 L257.9,225.2 L259.6,213.8 L261.2,201.9 L262.9,189.5 L264.5,176.9 L266.1,164.1 L267.8,151.5 L269.4,139.1 L271.1,127.1 L272.7,115.8 L274.4,105.1 L276.0,95.4 L277.6,86.7 L279.3,79.1 L280.9,72.7 L282.6,67.7 L284.2,64.1 L285.9,61.9 L287.5,61.2 L289.1,61.9 L290.8,64.2 L292.4,67.8 L294.1,72.9 L295.7,79.3 L297.4,86.9 L299.0,95.6 L300.6,105.3 L302.3,116.0 L303.9,127.3 L305.6,139.2 L307.2,151.6 L308.9,164.2 L310.5,176.8 L312.1,189.4 L313.8,201.7 L315.4,213.5 L317.1,224.8 L318.7,235.3 L320.4,244.9 L322.0,253.5 L323.6,261.0 L325.3,267.2 L326.9,272.1 L328.6,275.6 L330.2,277.7 L331.9,278.3 L333.5,277.4 L335.1,275.1 L336.8,271.4 L338.4,266.2 L340.1,259.8 L341.7,252.1 L343.4,243.3 L345.0,233.6 L346.6,222.9 L348.3,211.6 L349.9,199.7 L351.6,187.4 L353.2,174.8 L354.9,162.2 L356.5,149.8 L358.1,137.5 L359.8,125.8 L361.4,114.6 L363.1,104.2 L364.7,94.7 L366.4,86.2 L368.0,78.9 L369.6,72.8 L371.3,68.0 L372.9,64.7 L374.6,62.7 L376.2,62.2 L377.9,63.2 L379.5,65.6 L381.1,69.5 L382.8,74.7 L384.4,81.2 L386.1,88.9 L387.7,97.7 L389.4,107.5 L391.0,118.2 L392.6,129.5 L394.3,141.4 L395.9,153.7 L397.6,166.1 L399.2,178.7 L400.9,191.1 L402.5,203.2 L404.1,214.9 L405.8,225.9 L407.4,236.2 L409.1,245.6 L410.7,254.0 L412.4,261.2 L414.0,267.1 L415.6,271.8 L417.3,275.0 L418.9,276.9 L420.6,277.2 L422.2,276.2 L423.9,273.6 L425.5,269.7 L427.1,264.4 L428.8,257.8 L430.4,250.1 L432.1,241.2 L433.7,231.4 L435.4,220.8 L437.0,209.4 L438.6,197.6 L440.3,185.3 L441.9,172.9 L443.6,160.4 L445.2,148.1 L446.9,136.0 L448.5,124.5 L450.1,113.5 L451.8,103.3 L453.4,94.1 L455.1,85.8 L456.7,78.8 L458.4,72.9 L460.0,68.4 L461.6,65.3 L463.3,63.6 L464.9,63.3 L466.6,64.5 L468.2,67.1 L469.9,71.2 L471.5,76.5 L473.1,83.2 L474.8,91.0 L476.4,99.8 L478.1,109.7 L479.7,120.3 L481.4,131.7 L483.0,143.5 L484.6,155.7 L486.3,168.1 L487.9,180.5 L489.6,192.8 L491.2,204.7 L492.9,216.2 L494.5,227.0 L496.1,237.1 L497.8,246.2 L499.4,254.3 L501.1,261.3 L502.7,267.0 L504.4,271.4 L506.0,274.4 L507.6,276.0 L509.3,276.1 L510.9,274.8 L512.6,272.1 L514.2,268.0 L515.9,262.6 L517.5,255.9 L519.1,248.0 L520.8,239.1 L522.4,229.2 L524.1,218.6 L525.7,207.3 L527.4,195.4 L529.0,183.3 L530.6,171.0 L532.3,158.6 L533.9,146.4 L535.6,134.6 L537.2,123.2 L538.9,112.5 L540.5,102.5 L542.1,93.5 L543.8,85.5 L545.4,78.7 L547.1,73.1 L548.7,68.8 L550.4,65.9 L552.0,64.5 L553.6,64.4 L555.3,65.8 L556.9,68.6 L558.6,72.8 L560.2,78.4 L561.9,85.1 L563.5,93.0 L565.1,102.0 L566.8,111.8 L568.4,122.5 L570.1,133.8 L571.7,145.6 L573.4,157.7 L575.0,170.0 L576.6,182.3 L578.3,194.4 L579.9,206.2 L581.6,217.4 L583.2,228.0 L584.9,237.9 L586.5,246.8 L588.1,254.6 L589.8,261.3 L591.4,266.8 L593.1,270.9 L594.7,273.7 L596.4,275.1 L598.0,275.0 L599.6,273.5 L601.3,270.6 L602.9,266.3 L604.6,260.7 L606.2,253.9 L607.9,246.0 L609.5,237.0 L611.1,227.1 L612.8,216.4 L614.4,205.1 L616.1,193.4 L617.7,181.3 L619.4,169.1 L621.0,156.8 L622.6,144.8 L624.3,133.1 L625.9,122.0 L627.6,111.5 L629.2,101.7 L630.9,93.0 L632.5,85.2 L634.1,78.6 L635.8,73.3 L637.4,69.3 L639.1,66.6 L640.7,65.4 L642.4,65.6 L644.0,67.2 L645.6,70.2 L647.3,74.6 L648.9,80.2 L650.6,87.1 L652.2,95.1 L653.9,104.1 L655.5,114.0 L657.1,124.7 L658.8,135.9 L660.4,147.7 L662.1,159.7 L663.7,171.9 L665.4,184.0 L667.0,196.0 L668.6,207.5 L670.3,218.6 L671.9,229.0 L673.6,238.6 L675.2,247.3 L676.9,254.9 L678.5,261.4 L680.1,266.6 L681.8,270.5 L683.4,273.0 L685.1,274.1 L686.7,273.8 L688.4,272.1 L690.0,269.0 L691.6,264.6 L693.3,258.9 L694.9,251.9 L696.6,243.9 L698.2,234.9 L699.9,224.9 L701.5,214.3 L703.1,203.0 L704.8,191.3 L706.4,179.3 L708.1,167.2 L709.7,155.1 L711.4,143.3 L713.0,131.8 L714.6,120.8 L716.3,110.5 L717.9,101.0 L719.6,92.5 L721.2,85.0 L722.9,78.6 L724.5,73.6 L726.1,69.8 L727.8,67.4 L729.4,66.4 L731.1,66.8 L732.7,68.6 L734.4,71.8 L736.0,76.3 L737.6,82.1 L739.3,89.0 L740.9,97.1 L742.6,106.2 L744.2,116.1 L745.9,126.8 L747.5,138.0 L749.1,149.7 L750.8,161.7 L752.4,173.7 L754.1,185.7 L755.7,197.5 L757.4,208.9 L759.0,219.8 L760.6,230.0 L762.3,239.3 L763.9,247.8 L765.6,255.1 L767.2,261.3 L768.9,266.3 L770.5,269.9 L772.1,272.2 L773.8,273.1 L775.4,272.6 L777.1,270.7 L778.7,267.5 L780.4,262.9 L782.0,257.0 L783.6,250.0 L785.3,241.8 L786.9,232.8 L788.6,222.8 L790.2,212.2 L791.9,200.9 L793.5,189.3 L795.1,177.4 L796.8,165.4 L798.4,153.5 L800.1,141.8 L801.7,130.4 L803.4,119.7 L805.0,109.6 L806.6,100.3 L808.3,92.0 L809.9,84.8 L811.6,78.7 L813.2,73.9 L814.9,70.3 L816.5,68.2 L818.1,67.4 L819.8,68.0 L821.4,70.0 L823.1,73.3 L824.7,78.0 L826.4,83.9 L828.0,91.0 L829.6,99.2 L831.3,108.3 L832.9,118.2 L834.6,128.9 L836.2,140.1 L837.9,151.7 L839.5,163.6 L841.1,175.5 L842.8,187.4 L844.4,199.0 L846.1,210.2 L847.7,220.9 L849.4,230.8 L851.0,240.0 L852.6,248.2 L854.3,255.3 L855.9,261.2 L857.6,266.0 L859.2,269.4 L860.9,271.4 L862.5,272.1 L864.1,271.4 L865.8,269.3 L867.4,265.9 L869.1,261.1 L870.7,255.1 L872.4,248.0 L874.0,239.8 L875.6,230.7 L877.3,220.7 L878.9,210.1 L880.6,198.9 L882.2,187.3 L883.9,175.5 L885.5,163.6 L887.1,151.8 L888.8,140.3 L890.4,129.2 L892.1,118.6 L893.7,108.7 L895.4,99.7 L897.0,91.6 L898.6,84.6 L900.3,78.8 L901.9,74.2 L903.6,70.9 L905.2,69.0 L906.9,68.4 L908.5,69.2 L910.1,71.4 L911.8,74.9 L913.4,79.8 L915.1,85.8 L916.7,93.0 L918.4,101.2 L920.0,110.4 L921.6,120.3 L923.3,131.0 L924.9,142.2 L926.6,153.7 L928.2,165.5 L929.9,177.3 L931.5,189.0 L933.1,200.4 L934.8,211.5 L936.4,221.9 L938.1,231.7 L939.7,240.6 L941.4,248.5 L943.0,255.4 L944.6,261.1 L946.3,265.6 L947.9,268.8 L949.6,270.6 L951.2,271.0 L952.9,270.1 L954.5,267.9 L956.1,264.2 L957.8,259.4 L959.4,253.3 L961.1,246.0 L962.7,237.8 L964.4,228.6 L966.0,218.6 L967.6,208.0 L969.3,196.8 L970.9,185.3 L972.6,173.6 L974.2,161.9 L975.9,150.2 L977.5,138.9 L979.1,127.9 L980.8,117.6 L982.4,107.9 L984.1,99.1 L985.7,91.3 L987.4,84.5 L989.0,79.0 L990.6,74.6 L992.3,71.6 L993.9,69.8 L995.6,69.5 L997.2,70.5 L998.9,72.9 L1000.5,76.6 L1002.1,81.5 L1003.8,87.7 L1005.4,95.0 L1007.1,103.3 L1008.7,112.5 L1010.4,122.4 L1012.0,133.1 L1013.6,144.2 L1015.3,155.6 L1016.9,167.3 L1018.6,179.0 L1020.2,190.6 L1021.9,201.8 L1023.5,212.7 L1025.1,222.9 L1026.8,232.5 L1028.4,241.1 L1030.1,248.8 L1031.7,255.5 L1033.4,261.0 L1035.0,265.2 L1036.6,268.1 L1038.3,269.7 L1039.9,270.0 L1041.6,268.8 L1043.2,266.4 L1044.9,262.6 L1046.5,257.6 L1048.1,251.4 L1049.8,244.0 L1051.4,235.7 L1053.1,226.5 L1054.7,216.5 L1056.4,205.9 L1058.0,194.8 L1059.6,183.4 L1061.3,171.8 L1062.9,160.2 L1064.6,148.7 L1066.2,137.5 L1067.9,126.7 L1069.5,116.6 L1071.1,107.2 L1072.8,98.6 L1074.4,91.0 L1076.1,84.5 L1077.7,79.1 L1079.4,75.0 L1081.0,72.2 L1082.6,70.7 L1084.3,70.6 L1085.9,71.8 L1087.6,74.4 L1089.2,78.2 L1090.9,83.3 L1092.5,89.6 L1094.1,96.9 L1095.8,105.3 L1097.4,114.5 L1099.1,124.5 L1100.7,135.1 L1102.4,146.2 L1104.0,157.6 L1105.6,169.1 L1107.3,180.7 L1108.9,192.1 L1110.6,203.2 L1112.2,213.8 L1113.9,223.9 L1115.5,233.2 L1117.1,241.6 L1118.8,249.1 L1120.4,255.5 L1122.1,260.7 L1123.7,264.7 L1125.4,267.4 L1127.0,268.8 L1128.6,268.8 L1130.3,267.5 L1131.9,264.9 L1133.6,261.0 L1135.2,255.8 L1136.9,249.5 L1138.5,242.1 L1140.1,233.7 L1141.8,224.4 L1143.4,214.5 L1145.1,203.9 L1146.7,192.8 L1148.4,181.5 L1150.0,170.0" fill="none" stroke="#22d3ee" stroke-width="2.1" stroke-linejoin="round" stroke-linecap="round" style="filter:drop-shadow(0 0 6px #22d3ee66)"/></svg>
         <div style="position:absolute;left:34%;top:0;bottom:0;width:1px;background:linear-gradient(180deg,transparent,#2dd4bf88,transparent)"></div>
         <div style="position:absolute;left:34%;top:8px;transform:translateX(-50%);font-family:var(--mono);font-size:10px;color:var(--cy);background:var(--bg2);border:1px solid var(--line2);padding:2px 8px;border-radius:6px">A</div>
       </div>
@@ -63,10 +65,10 @@
     </div>
   </div>
   <div class="vstrip">
-    <div class="vpill ok"><div class="vi">✓</div><div>模型校验通过<small>validate_hfq6 · 12 锚点 · 今日 09:41</small></div></div>
-    <div class="vpill ok"><div class="vi">✓</div><div>过居里点电感模型<small>三边证据一致 · 场景C</small></div></div>
-    <div class="vpill"><div class="vi" style="background:rgba(255,180,84,.14);color:var(--em2)">≈</div><div>硬化深度预测<small><span class="badge est" style="margin-right:4px">估算</span>JMAK 外推区</small></div></div>
-    <div class="vpill"><div class="vi" style="background:rgba(148,163,184,.12);color:#94a3b8">?</div><div>铁氧体折算系数<small><span class="badge tbd">待查证</span>待 FEM 标定</small></div></div>
+    <div class="vpill ok"><div class="vi">✓</div><div><div style="font-size:12.5px">模型校验通过</div><small>validate_hfq6 · 12 锚点 · 今日 09:41</small></div></div>
+    <div class="vpill ok"><div class="vi">✓</div><div><div style="font-size:12.5px">过居里点电感模型</div><small>三边证据一致 · 场景C</small></div></div>
+    <div class="vpill"><div class="vi" style="background:rgba(255,180,84,.14);color:var(--em2)">≈</div><div><div style="font-size:12.5px;display:flex;align-items:center;gap:7px">硬化深度预测<span class="badge est">估算</span></div><small>JMAK 外推区</small></div></div>
+    <div class="vpill"><div class="vi" style="background:rgba(148,163,184,.12);color:#94a3b8">?</div><div><div style="font-size:12.5px;display:flex;align-items:center;gap:7px">铁氧体折算系数<span class="badge tbd">待查证</span></div><small>待 FEM 标定</small></div></div>
   </div>
 </div>
 </div></body></html>
